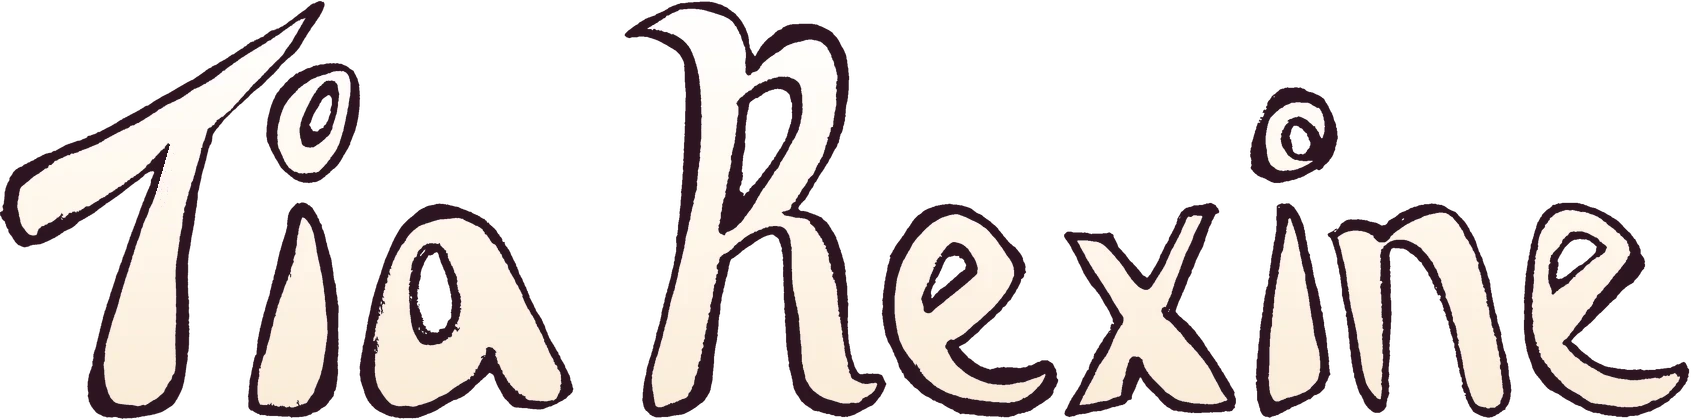
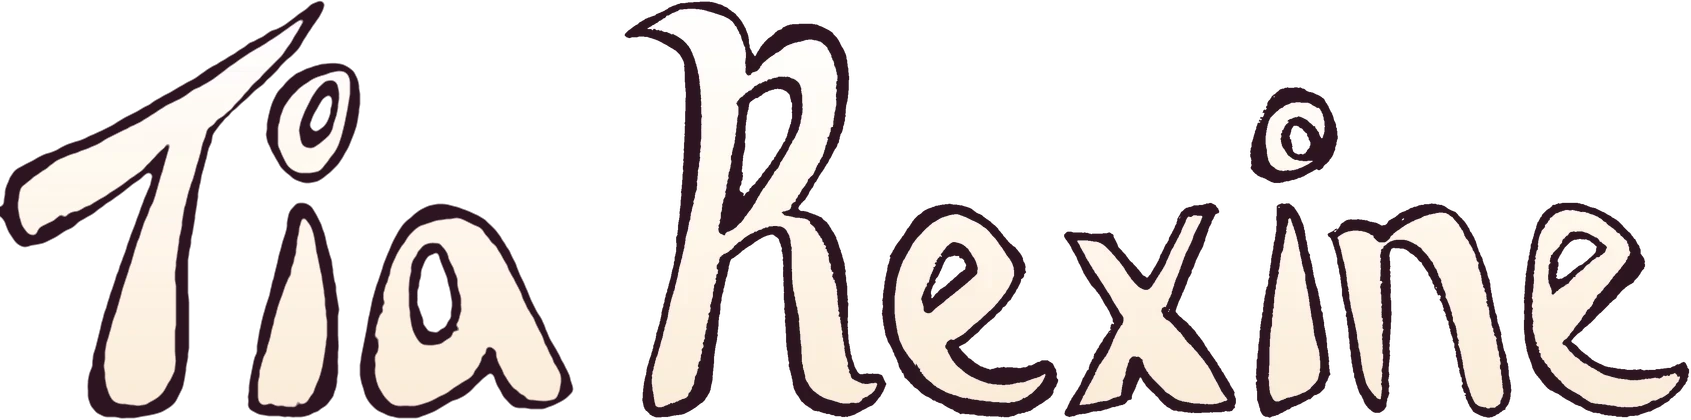
Generated link cards, cleaner Tia outlines, remove name.jpg
- Replace screenshot link previews with cards generated by ImageResponse
  (sunset backdrop, hand-lettered name, tagline, T-rex badge)
- Smooth the outlines in "Tia" and remove stray specks
- Remove unused public/name.jpg
- README: describe the generated cards

diff --git a/src/lib/socialCard.tsx b/src/lib/socialCard.tsx
@@ -1,0 +1,61 @@
+import { readFile } from "node:fs/promises";
+import { join } from "node:path";
+import { ImageResponse } from "next/og";
+
+export const socialCardSize = { width: 1200, height: 630 };
+
+export const socialCardAlt =
+  "Tia Rexine, hand-lettered over pink sunset clouds and desert mountains, with the tagline " +
+  "\"Full stack software engineer in the Sonoran desert\" and a T-rex badge.";
+
+const asset = (file: string) => readFile(join(process.cwd(), "assets/og", file));
+const dataUri = (buffer: Buffer, type: string) => `data:${type};base64,${buffer.toString("base64")}`;
+
+export async function renderSocialCard() {
+  const [background, name, badge] = await Promise.all([asset("background.jpg"), asset("name.png"), asset("badge.png")]);
+
+  return new ImageResponse(
+    (
+      <div
+        style={{ position: "relative", display: "flex", width: "100%", height: "100%" }}
+      >
+        {/* eslint-disable-next-line @next/next/no-img-element */}
+        <img
+          src={dataUri(background, "image/jpeg")}
+          alt=""
+          width={1200}
+          height={630}
+          style={{ position: "absolute" }}
+        />
+        <div
+          style={{
+            position: "absolute",
+            left: 80,
+            bottom: 96,
+            display: "flex",
+            flexDirection: "column",
+            alignItems: "flex-start",
+          }}
+        >
+          {/* eslint-disable-next-line @next/next/no-img-element */}
+          <img src={dataUri(name, "image/png")} alt="" width={620} height={154} />
+          <div style={{ marginTop: 22, fontSize: 34, color: "#ffffff", textShadow: "0 2px 12px rgba(0,0,0,0.45)" }}>
+            Full stack software engineer in the Sonoran desert
+          </div>
+          <div style={{ marginTop: 14, fontSize: 26, color: "#fde7c2", textShadow: "0 1px 10px rgba(0,0,0,0.4)" }}>
+            tiarexine.com
+          </div>
+        </div>
+        {/* eslint-disable-next-line @next/next/no-img-element */}
+        <img
+          src={dataUri(badge, "image/png")}
+          alt=""
+          width={150}
+          height={150}
+          style={{ position: "absolute", right: 72, bottom: 72 }}
+        />
+      </div>
+    ),
+    socialCardSize,
+  );
+}

diff --git a/src/app/opengraph-image.tsx b/src/app/opengraph-image.tsx
@@ -1,0 +1,9 @@
+import { renderSocialCard, socialCardAlt, socialCardSize } from "@/lib/socialCard";
+
+export const alt = socialCardAlt;
+export const size = socialCardSize;
+export const contentType = "image/png";
+
+export default function Image() {
+  return renderSocialCard();
+}

diff --git a/src/app/twitter-image.tsx b/src/app/twitter-image.tsx
@@ -1,0 +1,9 @@
+import { renderSocialCard, socialCardAlt, socialCardSize } from "@/lib/socialCard";
+
+export const alt = socialCardAlt;
+export const size = socialCardSize;
+export const contentType = "image/png";
+
+export default function Image() {
+  return renderSocialCard();
+}

diff --git a/README.md b/README.md
@@ -46,9 +46,10 @@ Built into Next.js and also used:
 - **`next/font`** loads three typefaces with no layout shift: **Geist** (body text), **Caveat** (the handwritten
   notes) and **Diamond Grotesk** (headings and my name, self-hosted from `public/fonts`).
 - **`next/image`** serves responsive, optimized images for the logos, the T-rex badge and the stickers.
-- **Metadata files** in `src/app` (`icon.png`, `apple-icon.png`, `favicon.ico`, `opengraph-image.jpg`,
-  `twitter-image.jpg` and their `.alt.txt` files) give the site its icons and its link preview, which is a capture
-  of the real hero.
+- **Metadata files** in `src/app` (`icon.png`, `apple-icon.png`, `favicon.ico`) give the site its icons.
+- **Link preview cards** (`opengraph-image.tsx` and `twitter-image.tsx`) are generated in code with `ImageResponse`
+  from `next/og`, using `src/lib/socialCard.tsx`. They compose the sunset backdrop, my hand-lettered name, a tagline
+  and the T-rex badge from the assets in `assets/og/`, so they're a designed card rather than a screenshot.
 
 ---
 
